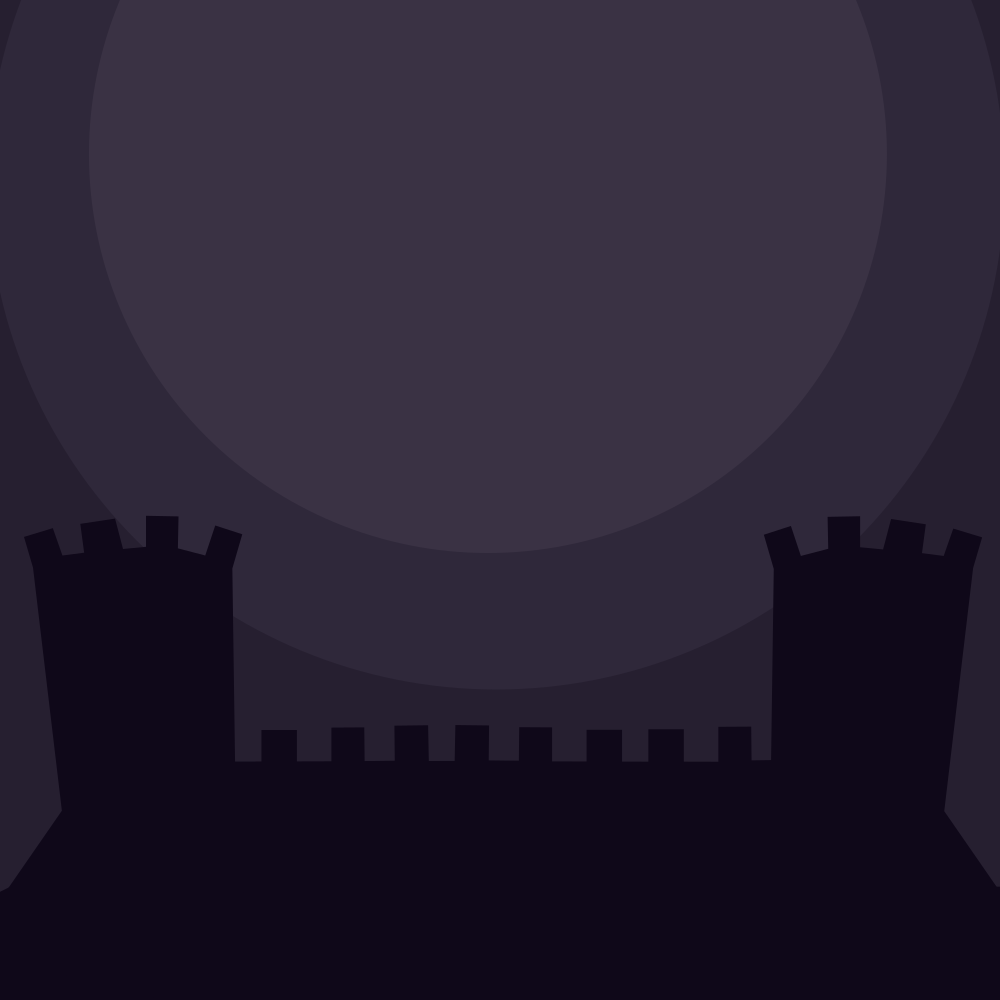
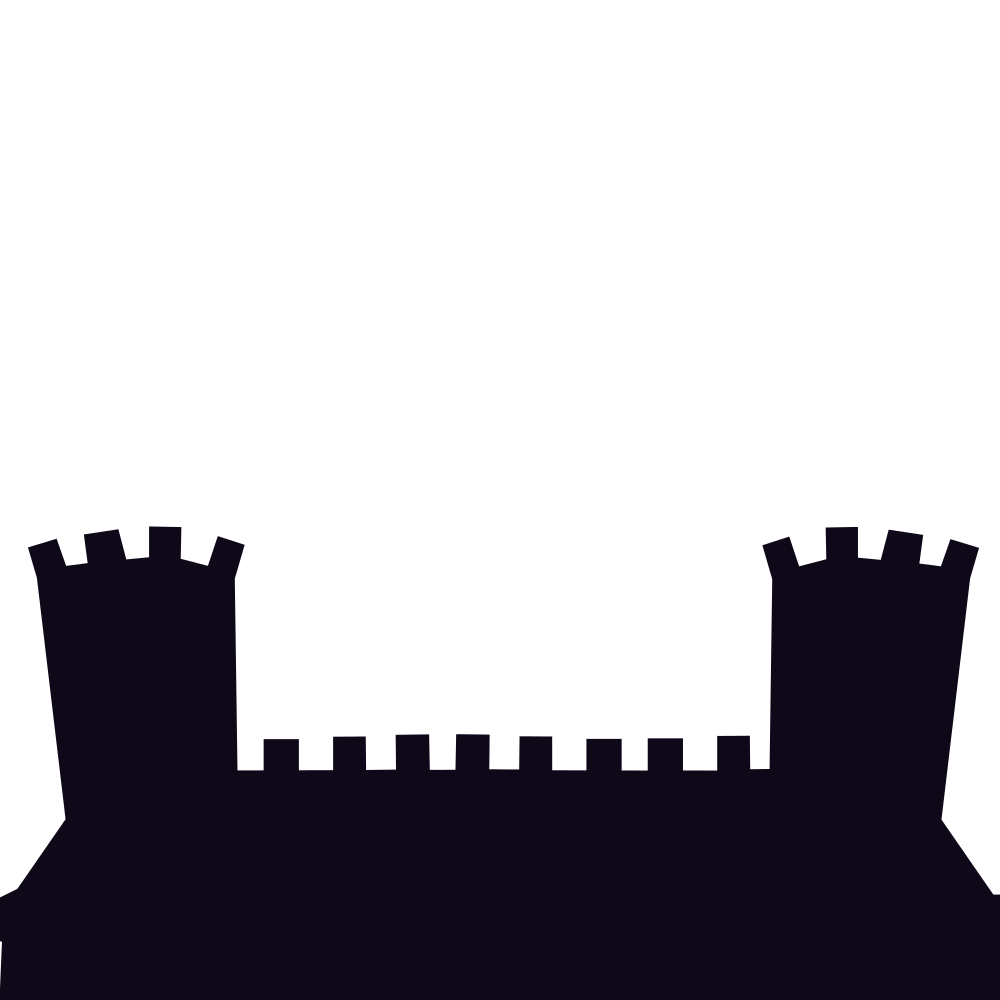
paralax effect added

diff --git a/styles.css b/styles.css
@@ -21,6 +21,7 @@ nav {
 }
 
 nav ul {
+    z-index: 10;
     margin-top: 3vh;
     position: absolute;
     top: 0;
@@ -67,14 +68,40 @@ nav img {
     left: 50%;
     transform: translate(-50%, -50%);
     text-align: center;
+    margin: 0;
+
 }
 .overlay h1 {
     font-size: 5em;
     color: #959595;
 }
+.overlay2 {
+    position: absolute;
+    bottom: 0;
+    left: 50%;
+    width: 100%;
+    height: auto;
+    transform: translate(-50%, 0);
+}
+
+.background{
+    z-index: -2;
+    width: 100%;
+    height: auto;
+
+    position: fixed;
+}
 
 .grid-item {
     padding: 5% 3% 5% 3%;
+}
+.grid-container {
+    display: grid;
+    grid-template-columns: repeat(2, 1fr);
+    gap: 2%;
+    padding: 2%;
+    place-items: center;
+    background-color: #222034;
 }
 
 .grid-container-2 {
@@ -83,6 +110,7 @@ nav img {
     gap: 2%;
     padding: 2%;
     place-items: center;
+    background-color: #222034;
 }
 
 .grid-container-2 h1 {
@@ -95,12 +123,14 @@ nav img {
     font-size: 2em;
 }
 
-.grid-container {
-    display: grid;
-    grid-template-columns: repeat(2, 1fr);
-    gap: 2%;
-    padding: 2%;
-    place-items: center;
+.blocker{
+    position: absolute;
+    top: 190vh;
+    left: 0;
+    width: 100%;
+    height: 20vh;
+    background-color: #0f0819ff;
+
 }
 
 footer {
@@ -127,7 +157,6 @@ footer div {
 }
 
 .video-container {
-    margin-top: 5vh;
     position: relative;
     width: 100%;
     padding-bottom: 56.25%; /* 16:9 aspect ratio (9 / 16 * 100) */

diff --git a/home.html b/home.html
@@ -12,11 +12,19 @@
             <li><a href="Supersmall.html">Supersmall Games</a></li>
             <li><a href="about.html">About</a></li>
         </ul>
-            <div>
-                <img src="/other/castle+moon.png" alt="">
+            <div class="blocker"></div>
+            <div class="background">
+                <img src="/other/moon+sky.png" height="80vh">
+            </div>
+            
             <div class="overlay">
                 <h1>Midknight</h1>
             </div>
+            <div>
+                <img src="/other/castle.png" alt="">
+                
+            </div>
+
     </nav>
 
     <main class="grid-container">
@@ -28,7 +36,7 @@
             <p>Lorem ipsum dolor sit, amet consectetur adipisicing elit. Aspernatur maiores asperiores minima minus reiciendis odio id rem quidem molestias sunt iste, corrupti mollitia corporis nulla magnam, sit voluptate expedita facilis!</p>
         </section>
     </main>
-<!-- PROBLEM WITH PADDING IDKKKKK -->
+
 
     <main class="grid-container-2">
         <section class="grid-item-text">

diff --git a/script.js b/script.js
@@ -1,8 +1,8 @@
-window.addEventListener('scroll', function() {
-    var navbar = document.getElementById('navbar');
-    if (window.scrollY > 100) {
-        navbar.style.backgroundColor = 'rgba(0, 0, 0, 0.8)'; // Change the background color when scrolled
-    } else {
-        navbar.style.backgroundColor = 'rgba(0, 0, 0, 0.5)';
-    }
-});
+// window.addEventListener('scroll', function() {
+//     var navbar = document.getElementById('navbar');
+//     if (window.scrollY > 100) {
+//         navbar.style.backgroundColor = 'rgba(0, 0, 0, 0.8)'; // Change the background color when scrolled
+//     } else {
+//         navbar.style.backgroundColor = 'rgba(0, 0, 0, 0.5)';
+//     }
+// });

diff --git a/Supersmall.html b/Supersmall.html
@@ -10,7 +10,7 @@
     <nav id="top">
         <ul>
             <li><a href="about.html">About</a></li>
-            <li><a href="index.html">Home</a></li>
+            <li><a href="home.html">Home</a></li>
         </ul>
     </nav>
     <div class="grid-container">

diff --git a/about.html b/about.html
@@ -9,7 +9,7 @@
 <body>
     <nav id="top">
         <ul>
-            <li><a href="index.html">Home</a></li>
+            <li><a href="home.html">Home</a></li>
             <li><a href="Supersmall.html">Supersmall Games</a></li>
         </ul>
         
